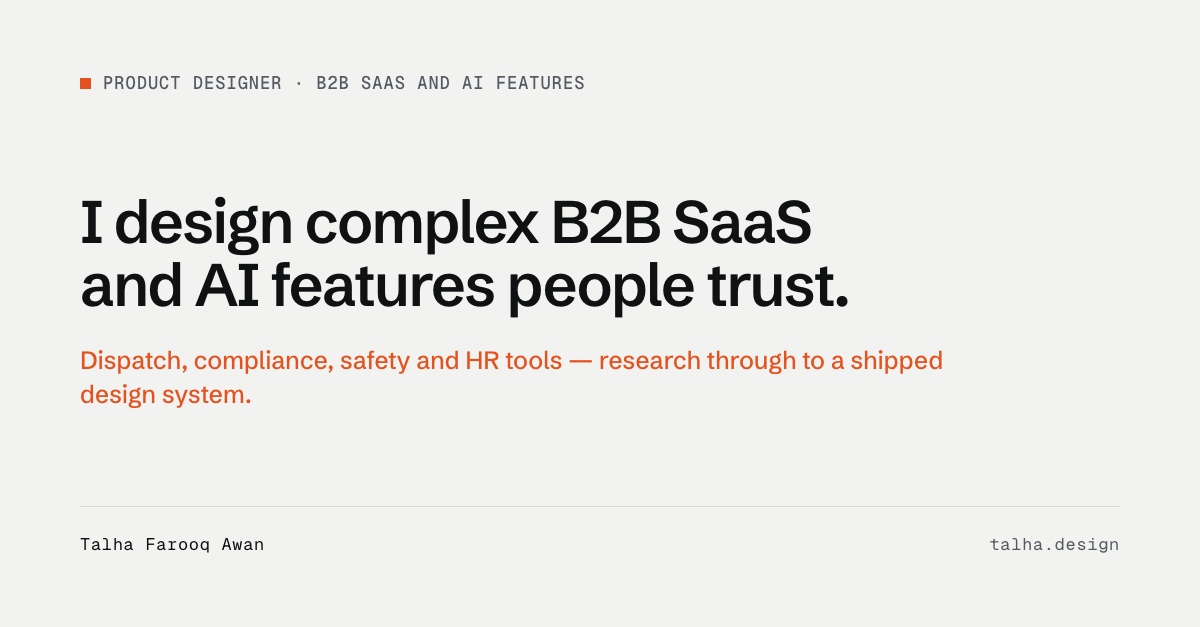
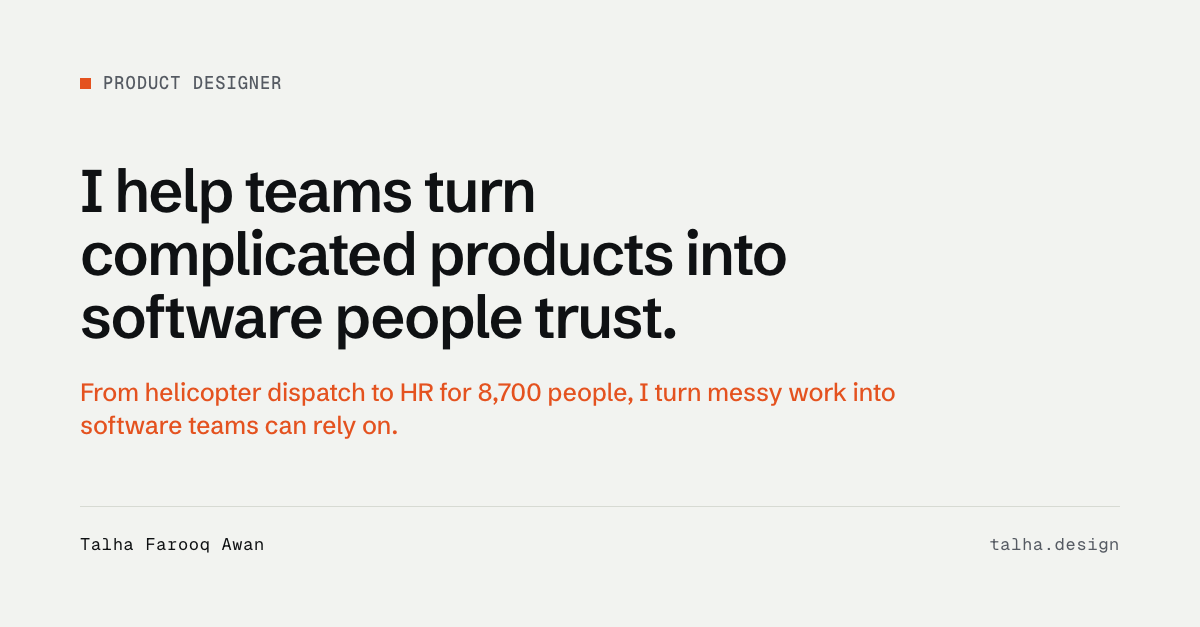
Share card: new title, headline and cover image

Changed region(s): [[0.0617, 0.2727, 0.8017, 0.697], [0.2467, 0.1212, 0.4933, 0.1515]]

diff --git a/index.html b/index.html
@@ -3,14 +3,14 @@
 <head>
 <meta charset="utf-8">
 <meta name="viewport" content="width=device-width, initial-scale=1">
-<title>Talha Farooq Awan · Product designer for B2B SaaS</title>
+<title>Talha Farooq Awan · Product designer</title>
 <meta name="description" content="I help teams turn complicated products into software people trust. From helicopter dispatch to HR for 8,700 people, I turn messy work into software teams can rely on.">
 <link rel="canonical" href="https://www.talha.design/">
 <meta property="og:type" content="website">
 <meta property="og:url" content="https://www.talha.design/">
-<meta property="og:title" content="Talha Farooq Awan · Product designer for B2B SaaS">
+<meta property="og:title" content="Talha Farooq Awan · Product designer">
 <meta property="og:description" content="I help teams turn complicated products into software people trust.">
-<meta property="og:image" content="https://www.talha.design/assets/og/home.png">
+<meta property="og:image" content="https://www.talha.design/assets/og/home.png?v=2">
 <meta property="og:image:width" content="1200">
 <meta property="og:image:height" content="627">
 <meta name="twitter:card" content="summary_large_image">
